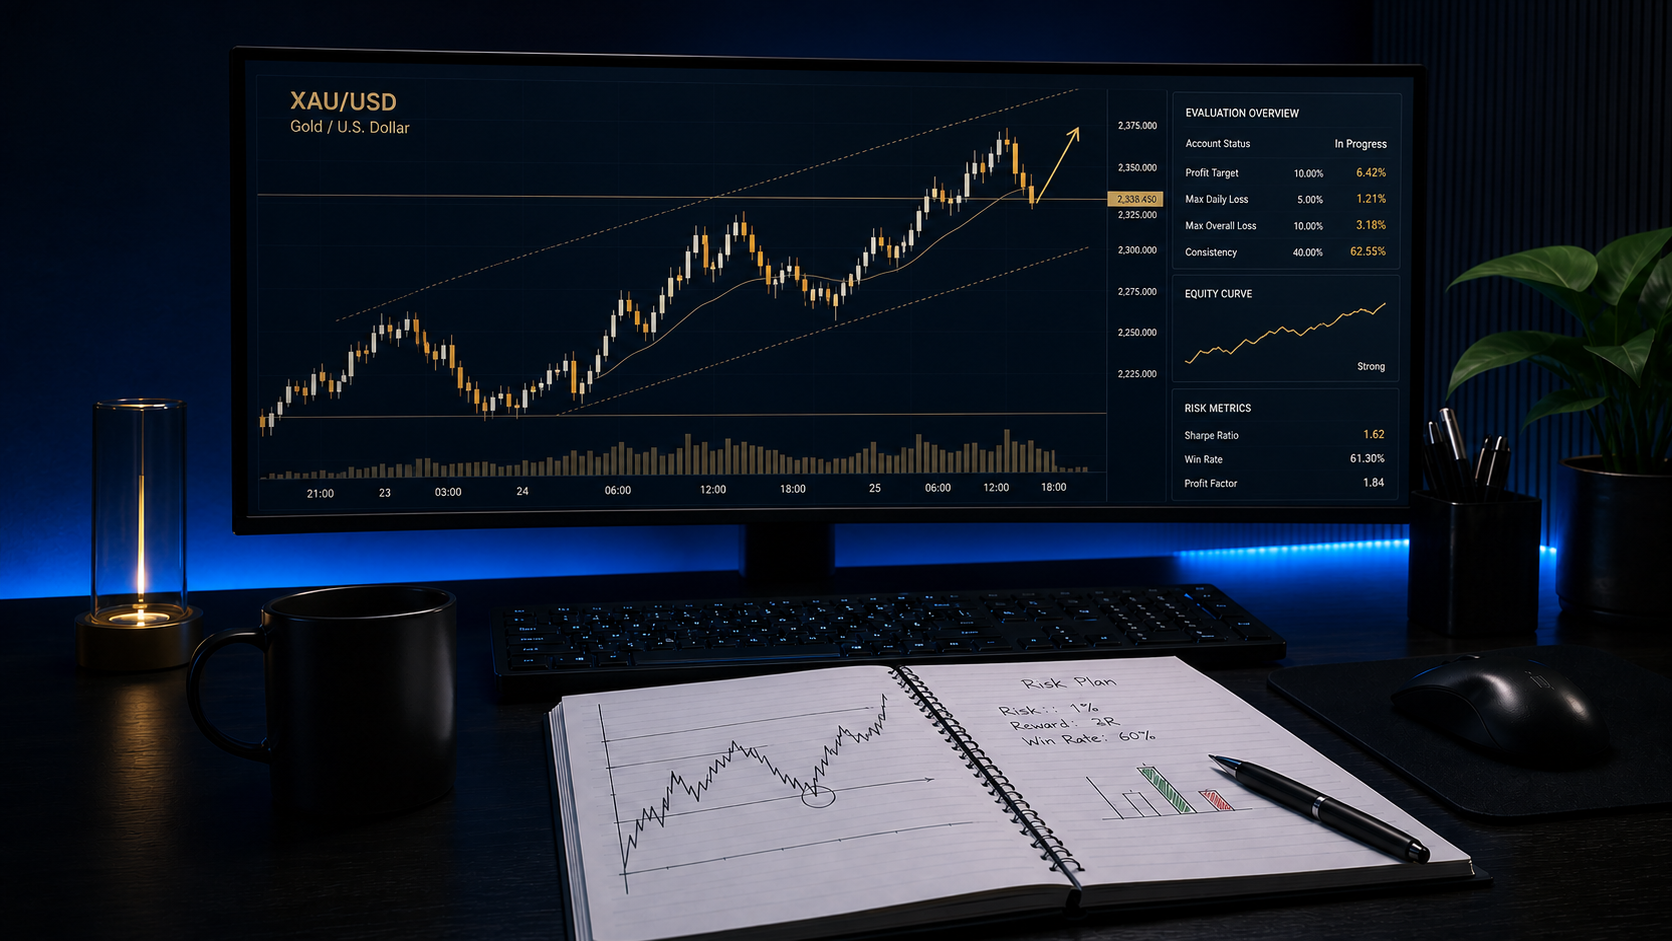
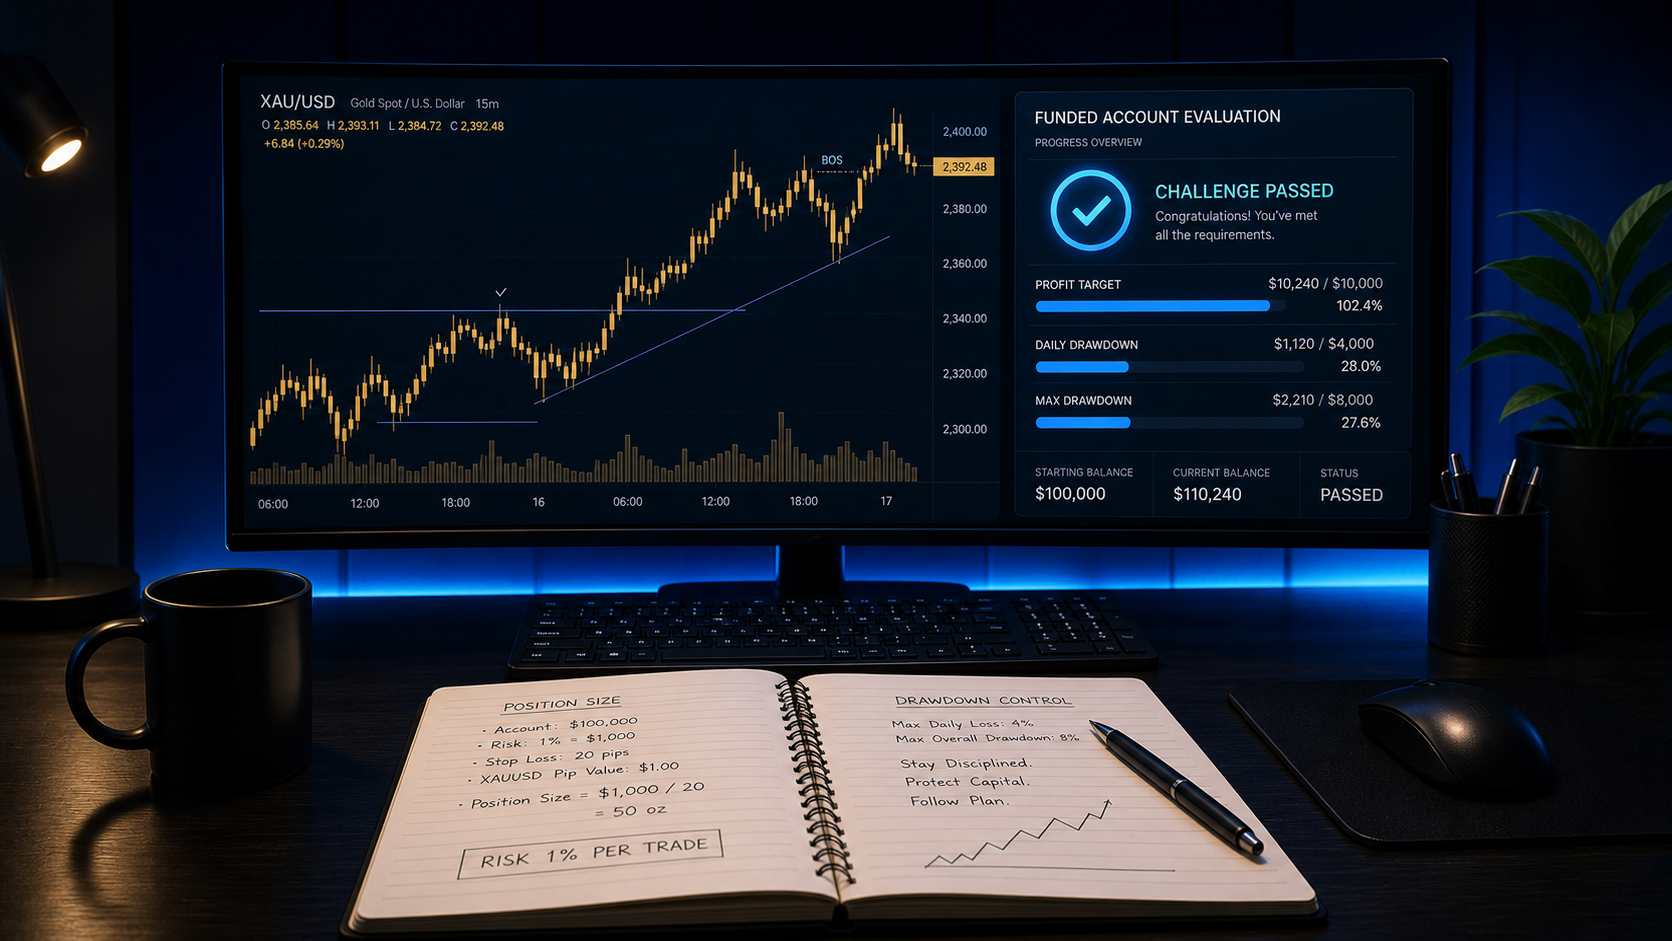
Add course benefits and refresh funded thumbnail

diff --git a/src/App.tsx b/src/App.tsx
@@ -1015,6 +1015,15 @@ export default function App() {
         'Access to a charting platform and a demo account for safe, practical chart practice.',
         'A notebook or digital journal, plus the commitment to practise consistently before risking real capital.',
       ];
+  const courseAccessPoints = [
+    'Lifetime support throughout your learning journey.',
+    '8 hours of structured recorded video lessons.',
+    'Every Sunday live meet for guidance and market review.',
+    'Daily chart updates to support consistent practice.',
+    'Live support when you need help with the lessons.',
+    'Private Discord community access.',
+    'Weekly educational calls for continued development.',
+  ];
 
   return (
     <div className="site-shell min-h-screen bg-ink text-white">
@@ -1298,6 +1307,19 @@ export default function App() {
                  </div>
 
                  <div className="order-4 border-t border-white/10 pt-10">
+                   <div className="mb-3 font-inter text-xs uppercase tracking-[0.3em] text-electric">Learn from basic to advanced</div>
+                   <h3 className="mb-8 font-podium text-3xl uppercase text-white">Course access & support</h3>
+                   <div className="grid gap-3 sm:grid-cols-2">
+                     {courseAccessPoints.map((point, index) => (
+                       <div key={point} className="smooth-card flex items-start gap-4 border border-white/10 bg-black/35 p-4 hover:border-electric/35">
+                         <span className="flex h-8 w-8 shrink-0 items-center justify-center bg-electric/10 font-mono text-xs font-bold text-electric">{String(index + 1).padStart(2, '0')}</span>
+                         <span className="pt-1 text-sm leading-relaxed text-white/75 md:text-base">{point}</span>
+                       </div>
+                     ))}
+                   </div>
+                 </div>
+
+                 <div className="order-5 border-t border-white/10 pt-10">
                    <div className="mb-3 font-inter text-xs uppercase tracking-[0.3em] text-electric">Built for focused traders</div>
                    <h3 className="mb-8 font-podium text-3xl uppercase text-white">Who this course is for</h3>
                    <ul className="space-y-5 text-base leading-relaxed text-white/75 md:text-lg">
@@ -1307,7 +1329,7 @@ export default function App() {
                    </ul>
                  </div>
 
-                 <div className="order-5 border-t border-white/10 pt-10">
+                 <div className="order-6 border-t border-white/10 pt-10">
                    <div className="mb-3 font-inter text-xs uppercase tracking-[0.3em] text-electric">Before you begin</div>
                    <h3 className="mb-8 font-podium text-3xl uppercase text-white">Requirements</h3>
                    <ul className="space-y-5 text-base leading-relaxed text-white/75 md:text-lg">
